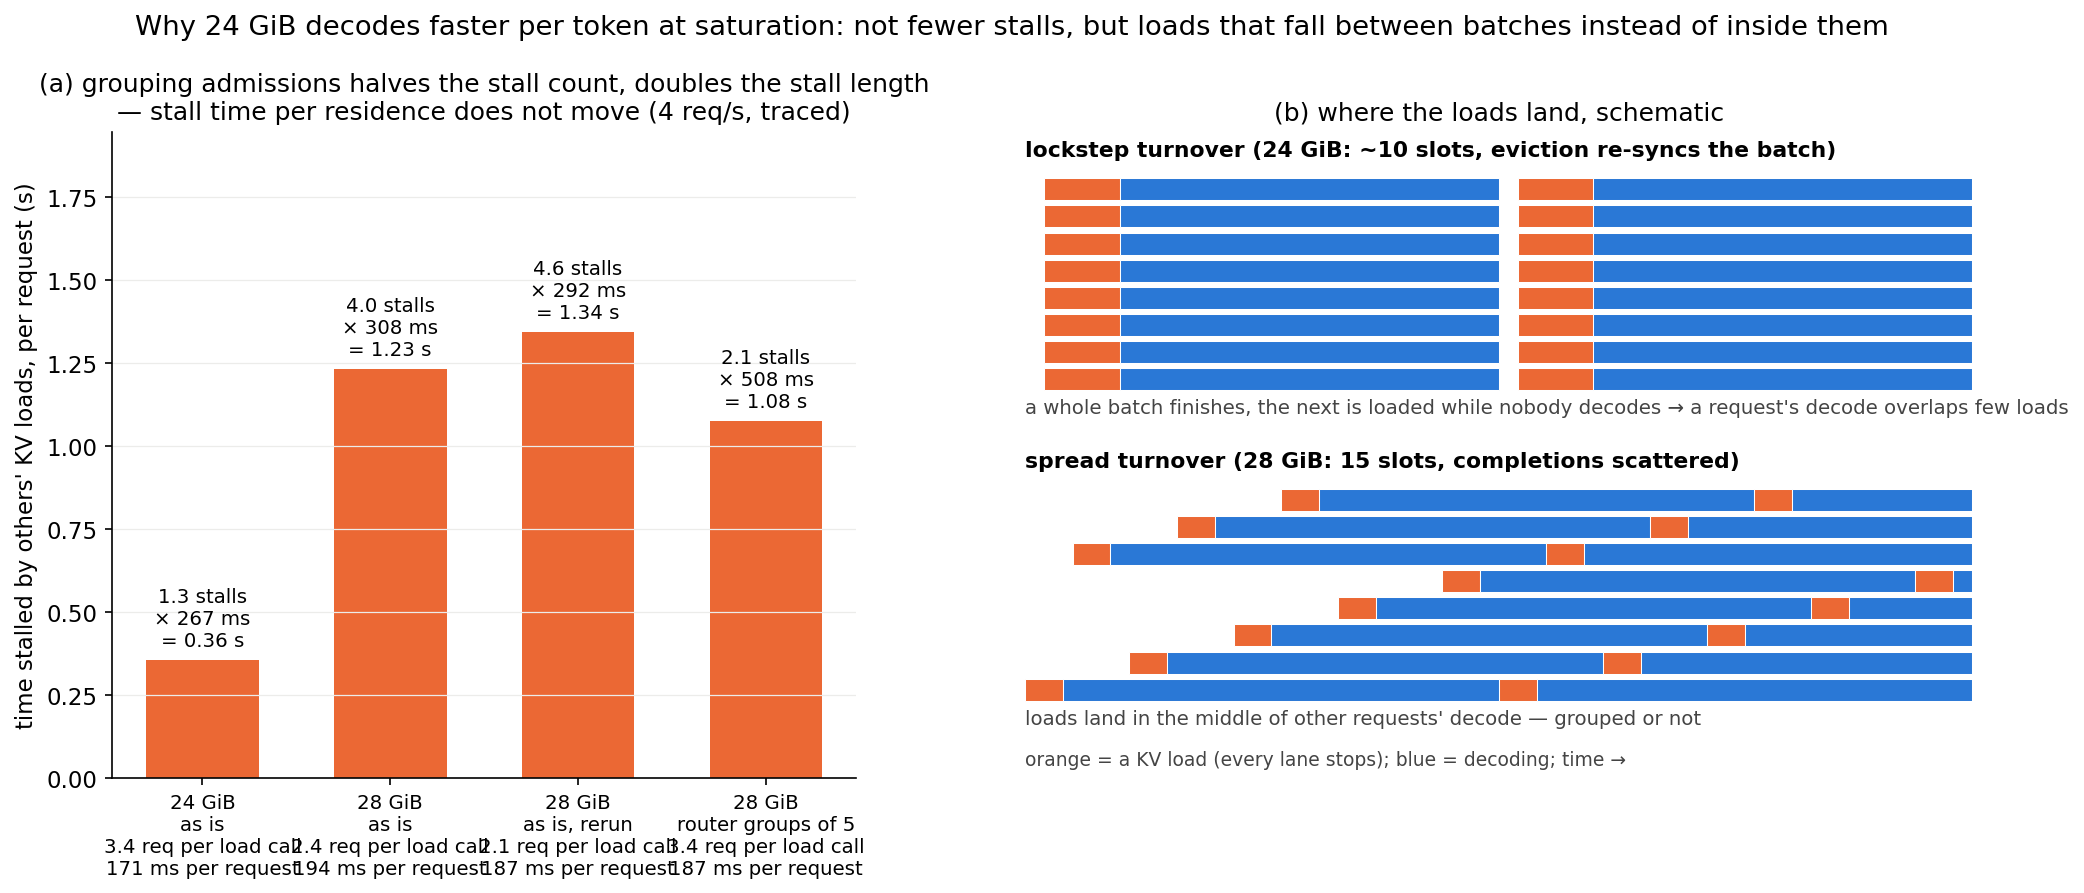
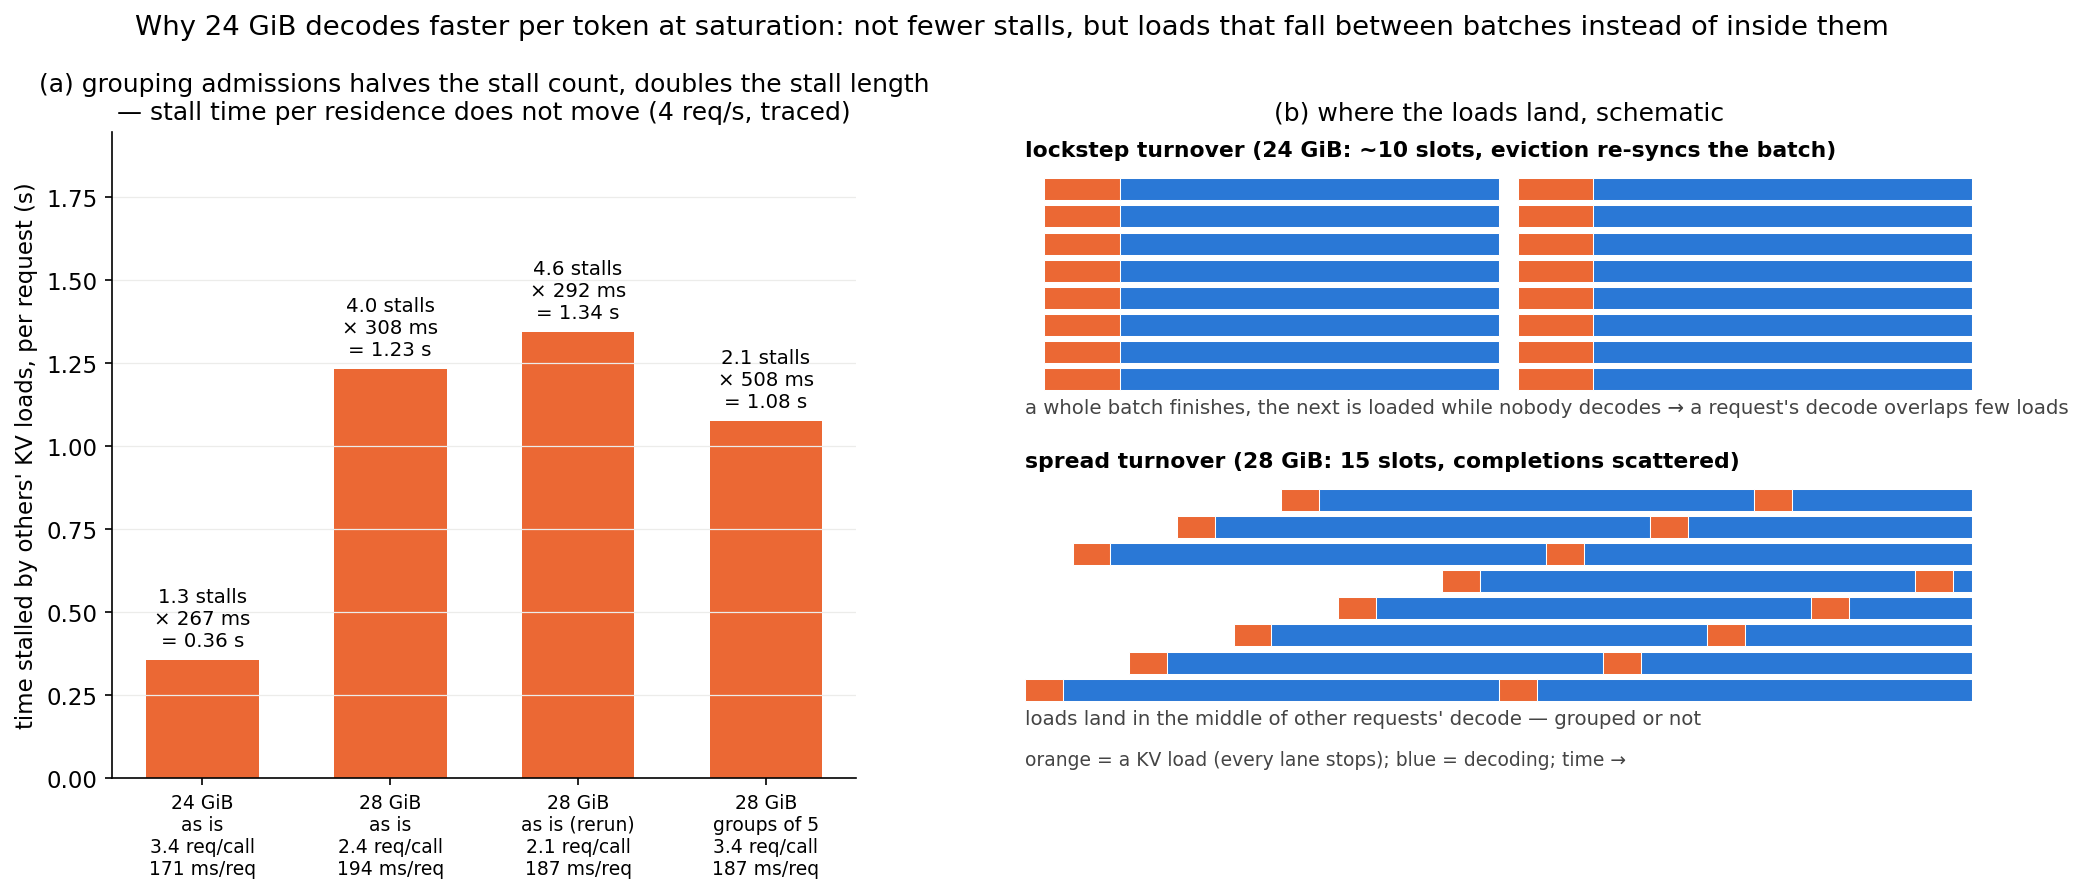
KV-slot stall-check figure: compact tick labels

Changed region(s): [[0.0624, 0.8768, 0.4055, 0.9978], [0.156, 0.8768, 0.2183, 0.9071], [0.0936, 0.8768, 0.1248, 0.9071]]

diff --git a/scripts/plots/plot_kv_stall_check.py b/scripts/plots/plot_kv_stall_check.py
@@ -25,7 +25,7 @@ TL = REPO / "output" / "kv_vram" / "timeline"
 plt.rcParams.update({"font.size": 11, "axes.titlesize": 12, "axes.labelsize": 11})
 C_LOAD, C_DEC, C_G = "#eb6834", "#2a78d6", "#9a9a95"
 CELLS = [("kv_base_b24_q4_tr", "24 GiB\nas is"), ("kv_base_b28_q4_tr", "28 GiB\nas is"),
-         ("kv_base_b28_q4_tr_r2", "28 GiB\nas is, rerun"), ("kv_cohort5_b28_q4_tr", "28 GiB\nrouter groups of 5")]
+         ("kv_base_b28_q4_tr_r2", "28 GiB\nas is (rerun)"), ("kv_cohort5_b28_q4_tr", "28 GiB\ngroups of 5")]
 
 
 def f(x):
@@ -64,8 +64,8 @@ for i, (lab, r) in enumerate(rows):
     ax.text(i, r["stall_s"] + 0.03, f"{r['stalls']:.1f} stalls\n× {r['len_ms']:.0f} ms\n= {r['stall_s']:.2f} s",
             ha="center", va="bottom", fontsize=9.5)
 ax.set_xticks(x)
-ax.set_xticklabels([f"{lab}\n{r['per_call']:.1f} req per load call\n{r['per_req_ms']:.0f} ms per request"
-                    for lab, r in rows], fontsize=9.5)
+ax.set_xticklabels([f"{lab}\n{r['per_call']:.1f} req/call\n{r['per_req_ms']:.0f} ms/req"
+                    for lab, r in rows], fontsize=9)
 ax.set_ylim(0, max(r["stall_s"] for _, r in rows) * 1.45)
 ax.set_ylabel("time stalled by others' KV loads, per request (s)")
 ax.set_title("(a) grouping admissions halves the stall count, doubles the stall length\n"
